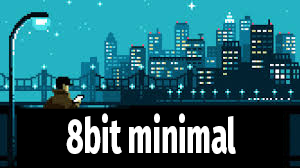
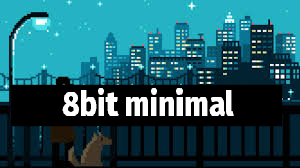
inital commit

diff --git a/src/data/data.js b/src/data/data.js
@@ -44,7 +44,7 @@ export const data = [
     price: "1",
     id: "5",
     title: "8bit Minimal",
-    img: "https://encrypted-tbn0.gstatic.com/images?q=tbn:ANd9GcTzQro2PZt3E9Ayfdn_Itm1PPvCeRpPUMTgbg&usqp=CAU",
+    img: "https://github.com/trippyy28/trippyysamplesdemo/blob/master/src/imgs/8bit.png?raw=true",
     audioUrl:
       "https://www.fesliyanstudios.com/musicfiles/2021-03-17_-_JPOP_-_www.FesliyanStudios.com_Steve_Oxen/2021-03-17_-_JPOP_-_www.FesliyanStudios.com_Steve_Oxen.mp3",
     moreInfo: "8bit Minimal is a...",
